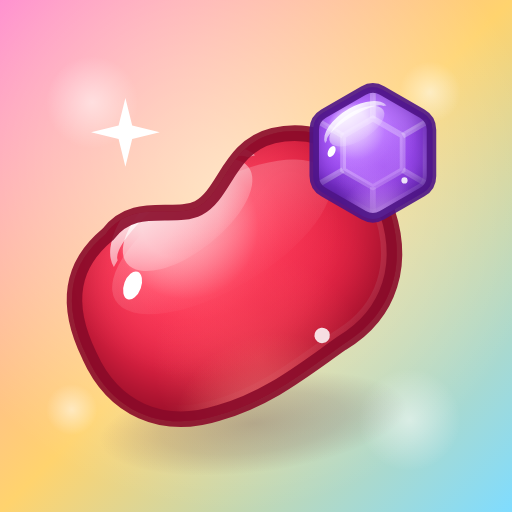
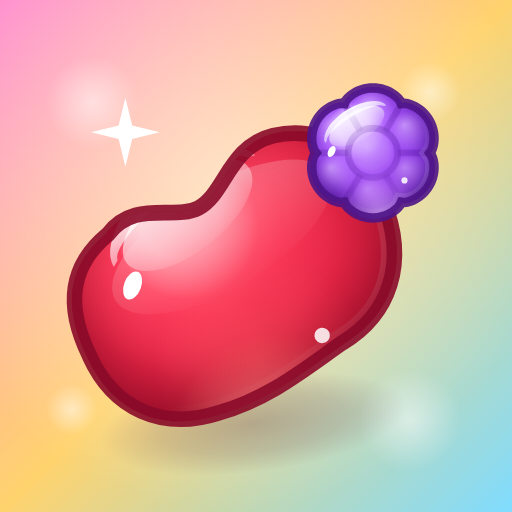
Purple candy is now a jujube cluster
The classic purple candy is a cluster of round gummies, not a gem: six
gummies around a raised centre one, with seams and a dome of light on
each bump. Icons regenerated.

Claude-Session: https://claude.ai/code/session_014wA35Zw5oBT73siBgt3z2U

Changed region(s): [[0.5938, 0.1562, 0.875, 0.4375]]

diff --git a/www/js/art.js b/www/js/art.js
@@ -26,7 +26,7 @@
   }
 
   // ---------------------------------------------------------------- shapes (centered on 0,0, radius r)
-  // Classic candy-shop silhouettes: jelly bean, lozenge, lemon drop, square chew, ball and hexagon gem.
+  // Classic candy-shop silhouettes: jelly bean, lozenge, lemon drop, gum square, lollipop head and jujube cluster.
   function rotatedPath(path, degrees) {
     const rotated = new Path2D();
     rotated.addPath(path, new DOMMatrix().rotateSelf(degrees));
@@ -134,7 +134,23 @@
     return path;
   }
 
-  const SHAPES = { bean: beanPath, lozenge: lozengePath, drop: dropPath, square: squarePath, ball: ballPath, hexagon: hexagonPath };
+  function clusterPath(r) {
+    // Jujube cluster: six round gummies huddled around a seventh, giving a soft bumpy outline.
+    const path = new Path2D();
+    const steps = 144;
+    for (let index = 0; index <= steps; index += 1) {
+      const angle = (index / steps) * Math.PI * 2;
+      const radius = r * (0.84 + 0.12 * Math.pow(Math.abs(Math.cos(3 * angle)), 0.7));
+      const x = Math.sin(angle) * radius;
+      const y = -Math.cos(angle) * radius;
+      if (index === 0) path.moveTo(x, y);
+      else path.lineTo(x, y);
+    }
+    path.closePath();
+    return path;
+  }
+
+  const SHAPES = { bean: beanPath, lozenge: lozengePath, drop: dropPath, square: squarePath, ball: ballPath, hexagon: hexagonPath, cluster: clusterPath };
 
   // ---------------------------------------------------------------- materials
   const MATERIALS = {
@@ -299,6 +315,41 @@
       ctx.strokeStyle = rgba(candy.shadow, 0.28);
       ctx.translate(r * 0.02, r * 0.03);
       ctx.stroke(superellipsePath(r * 0.76, r * 0.56, 2.7));
+      ctx.restore();
+    } else if (candy.shape === 'cluster') {
+      // Each gummy of the cluster: a soft seam between neighbours and a little dome of light on every bump.
+      ctx.save();
+      for (let index = 0; index < 6; index += 1) {
+        const bump = (index * Math.PI) / 3;
+        const seam = bump + Math.PI / 6;
+        ctx.strokeStyle = rgba(candy.shadow, 0.4);
+        ctx.lineWidth = Math.max(1.4 * pixel, r * 0.04);
+        ctx.beginPath();
+        ctx.moveTo(Math.sin(seam) * r * 0.36, -Math.cos(seam) * r * 0.36);
+        ctx.lineTo(Math.sin(seam) * r * 0.8, -Math.cos(seam) * r * 0.8);
+        ctx.stroke();
+        const bx = Math.sin(bump) * r * 0.62;
+        const by = -Math.cos(bump) * r * 0.62;
+        const dome = ctx.createRadialGradient(bx - r * 0.08, by - r * 0.1, 0, bx, by, r * 0.3);
+        dome.addColorStop(0, rgba(mix(candy.highlight, '#ffffff', 0.3), 0.55));
+        dome.addColorStop(1, rgba(candy.highlight, 0));
+        ctx.fillStyle = dome;
+        ctx.fillRect(bx - r * 0.3, by - r * 0.3, r * 0.6, r * 0.6);
+      }
+      // The centre gummy sits a little higher.
+      const centre = ctx.createRadialGradient(-r * 0.08, -r * 0.1, 0, 0, 0, r * 0.38);
+      centre.addColorStop(0, rgba(mix(candy.highlight, '#ffffff', 0.35), 0.75));
+      centre.addColorStop(0.7, rgba(candy.highlight, 0.3));
+      centre.addColorStop(1, rgba(candy.base, 0));
+      ctx.fillStyle = centre;
+      ctx.beginPath();
+      ctx.arc(0, 0, r * 0.38, 0, Math.PI * 2);
+      ctx.fill();
+      ctx.strokeStyle = rgba(candy.shadow, 0.45);
+      ctx.lineWidth = Math.max(1.4 * pixel, r * 0.04);
+      ctx.beginPath();
+      ctx.arc(0, 0, r * 0.36, 0, Math.PI * 2);
+      ctx.stroke();
       ctx.restore();
     } else if (candy.shape === 'hexagon') {
       // Cut facets: a flat table in the middle with spokes to every corner.

diff --git a/www/js/levels.js b/www/js/levels.js
@@ -1,7 +1,7 @@
 // LEVELS: data only. Adding level 11+ means appending one more object to this array (see README "Adding levels").
 // Layout legend: '.' normal  '#' hole  'j' single jelly  'J' double jelly  'f' frosting (1)  'F' frosting (2)
 //                'c' cherry start  'x' exit tray (cherries reaching it are collected)
-// Colors: 0 Cherry Bean, 1 Orange Lozenge, 2 Lemon Drop, 3 Mint Square, 4 Blueberry Ball, 5 Grape Gem.
+// Colors: 0 Cherry Bean, 1 Orange Lozenge, 2 Lemon Drop, 3 Mint Square, 4 Blueberry Ball, 5 Grape Cluster.
 // Goals are always candy goals (collect, glaze, cherries): a level is never won by points alone.
 // `palette` (optional) picks which candies appear; by default the first `colors` candies are used.
 // Finishing the goals always earns at least 1 star. Star thresholds come from tests/simulate.js and are set for a
@@ -187,7 +187,7 @@
       ],
       goals: [{ type: 'jelly' }, { type: 'collect', color: 5, count: 30 }],
       stars: [3000, 8000, 9500],
-      tutorial: 'The grand finale! Clear every bit of glaze and collect the purple gems. Combine specials for huge blasts.',
+      tutorial: 'The grand finale! Clear every bit of glaze and collect the purple clusters. Combine specials for huge blasts.',
     },
   ];
 

diff --git a/www/js/config.js b/www/js/config.js
@@ -14,7 +14,7 @@
       { id: 2, name: 'Lemon Drop', shape: 'drop', base: '#ffd92e', highlight: '#fff6a8', shadow: '#c49a00', warm: '#ffec6e' },
       { id: 3, name: 'Mint Square', shape: 'square', base: '#2fd36b', highlight: '#a3f5bd', shadow: '#0f8a3c', warm: '#8ef09a' },
       { id: 4, name: 'Blueberry Ball', shape: 'ball', base: '#2f8cff', highlight: '#a8d4ff', shadow: '#1450b8', warm: '#7cc4ff' },
-      { id: 5, name: 'Grape Gem', shape: 'hexagon', base: '#a64dff', highlight: '#dcb5ff', shadow: '#5a1aa8', warm: '#d48bff' },
+      { id: 5, name: 'Grape Cluster', shape: 'cluster', base: '#a64dff', highlight: '#dcb5ff', shadow: '#5a1aa8', warm: '#d48bff' },
     ],
 
     THEMES: [

diff --git a/README.md b/README.md
@@ -32,7 +32,7 @@ Newer builds install over older ones and keep your progress, because every build
 
 ## What's in the game
 
-* 6 candies in classic candy-shop shapes, each with its own color **and** shape: Cherry Bean (jelly bean), Orange Lozenge, Lemon Drop, Mint Square, Blueberry Ball and Grape Gem (hexagon). All art is drawn by the game's own code; each candy uses an 8-layer gloss recipe (ground shadow, base body, rim light, inner glow, subsurface tint, main specular, secondary glint, outline). The board is a see-through deep-blue checkerboard so the candies pop.
+* 6 candies in classic candy-shop shapes, each with its own color **and** shape: Cherry Bean (jelly bean), Orange Lozenge, Lemon Drop, Mint Square, Blueberry Ball (lollipop head) and Grape Cluster (jujube cluster). All art is drawn by the game's own code; each candy uses an 8-layer gloss recipe (ground shadow, base body, rim light, inner glow, subsurface tint, main specular, secondary glint, outline). The board is a see-through deep-blue checkerboard so the candies pop.
 * 4 switchable materials: **Classic** (solid, shiny 3D hard candy, the default), **Gummy**, **Hard Candy** and **Sugar Sprinkle**.
 * A painted candy-land backdrop (sky, clouds, candy hills, lollipop and cotton-candy trees) behind deep-blue glass panels, light-blue popups with ribbon titles and green action buttons.
 * The level map is a candy land with a cobbled road, a chocolate river and candy trees; your marker sits on the furthest level reached.
